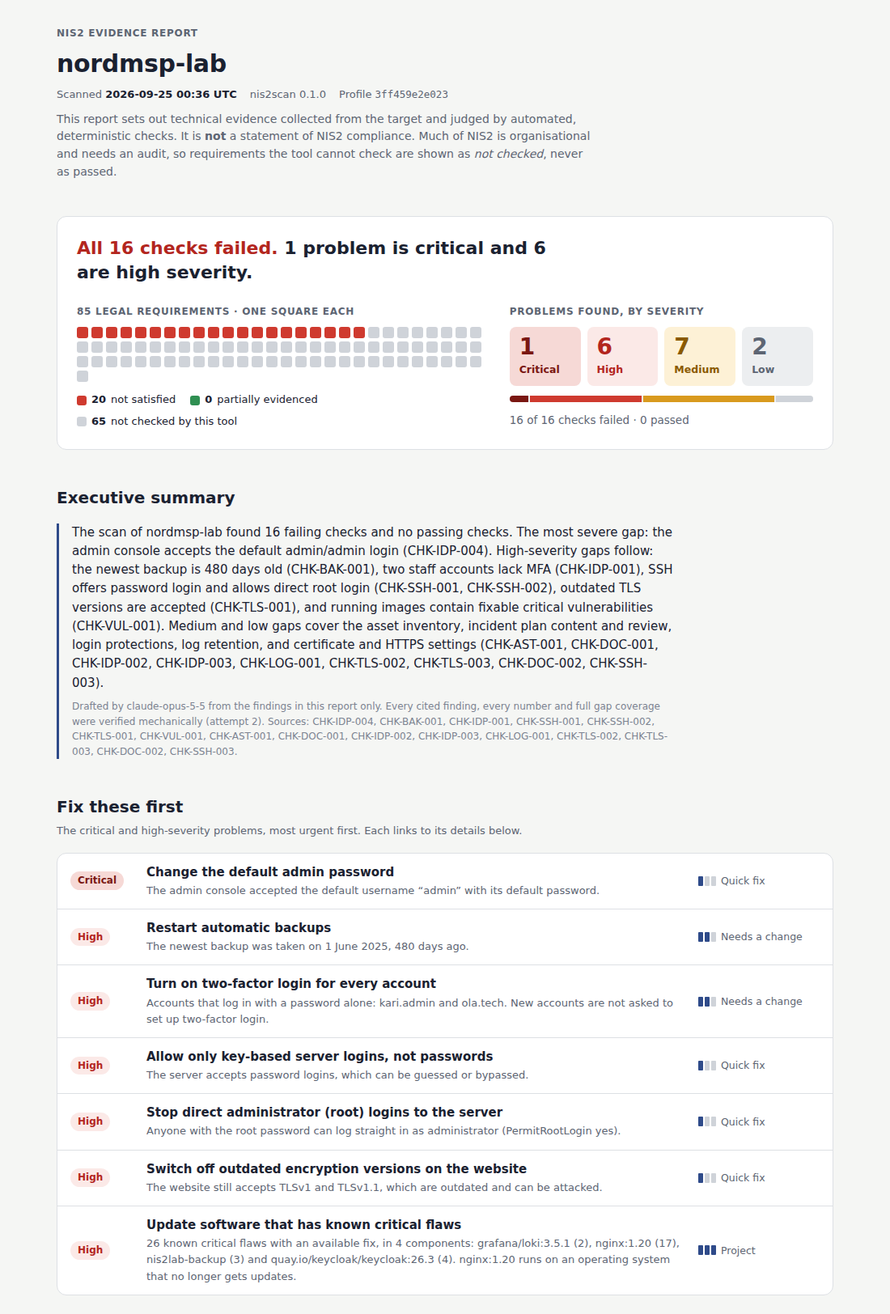
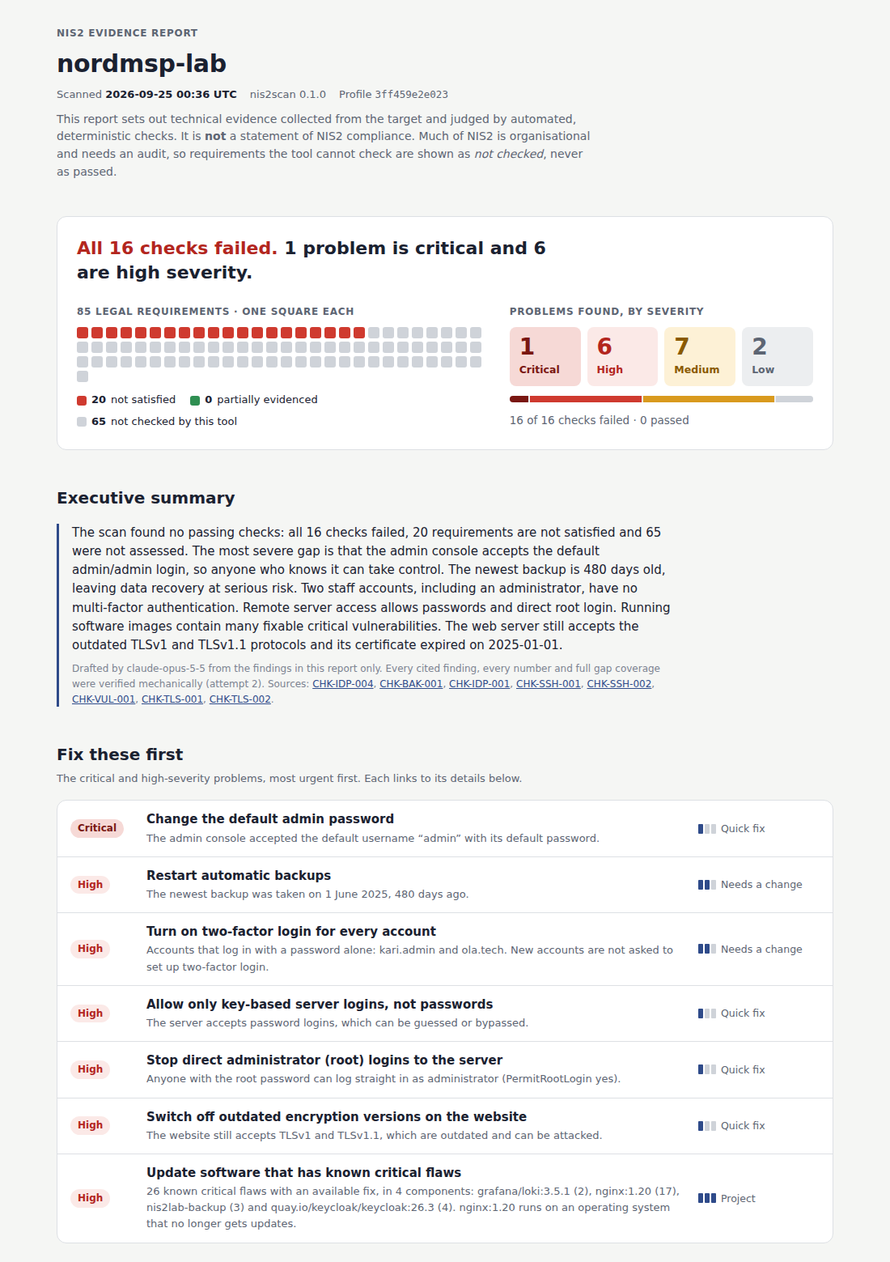
Use the prompt .2 narrative in the example report
Run B replaces the earlier narrative. The README screenshot and figures
are updated.

diff --git a/docs/example-report/weak/report.html b/docs/example-report/weak/report.html
@@ -214,11 +214,12 @@
   <section>
     <h2>Executive summary</h2>
     <div class="narrative">
-      <p>The scan of nordmsp-lab found 16 failing checks and no passing checks. The most severe gap: the admin console accepts the default admin/admin login (CHK-IDP-004). High-severity gaps follow: the newest backup is 480 days old (CHK-BAK-001), two staff accounts lack MFA (CHK-IDP-001), SSH offers password login and allows direct root login (CHK-SSH-001, CHK-SSH-002), outdated TLS versions are accepted (CHK-TLS-001), and running images contain fixable critical vulnerabilities (CHK-VUL-001). Medium and low gaps cover the asset inventory, incident plan content and review, login protections, log retention, and certificate and HTTPS settings (CHK-AST-001, CHK-DOC-001, CHK-IDP-002, CHK-IDP-003, CHK-LOG-001, CHK-TLS-002, CHK-TLS-003, CHK-DOC-002, CHK-SSH-003).</p>
+      <p>The scan found no passing checks: all 16 checks failed, 20 requirements are not satisfied and 65 were not assessed. The most severe gap is that the admin console accepts the default admin/admin login, so anyone who knows it can take control. The newest backup is 480 days old, leaving data recovery at serious risk. Two staff accounts, including an administrator, have no multi-factor authentication. Remote server access allows passwords and direct root login. Running software images contain many fixable critical vulnerabilities. The web server still accepts the outdated TLSv1 and TLSv1.1 protocols and its certificate expired on 2025-01-01.</p>
       <p class="ai">
         Drafted by claude-opus-5-5 from the findings in this report only. Every cited
         finding, every number and full gap coverage were verified mechanically
-        (attempt 2). Sources: CHK-IDP-004, CHK-BAK-001, CHK-IDP-001, CHK-SSH-001, CHK-SSH-002, CHK-TLS-001, CHK-VUL-001, CHK-AST-001, CHK-DOC-001, CHK-IDP-002, CHK-IDP-003, CHK-LOG-001, CHK-TLS-002, CHK-TLS-003, CHK-DOC-002, CHK-SSH-003.
+        (attempt 2). Sources:
+        <a href="#CHK-IDP-004">CHK-IDP-004</a>, <a href="#CHK-BAK-001">CHK-BAK-001</a>, <a href="#CHK-IDP-001">CHK-IDP-001</a>, <a href="#CHK-SSH-001">CHK-SSH-001</a>, <a href="#CHK-SSH-002">CHK-SSH-002</a>, <a href="#CHK-VUL-001">CHK-VUL-001</a>, <a href="#CHK-TLS-001">CHK-TLS-001</a>, <a href="#CHK-TLS-002">CHK-TLS-002</a>.
       </p>
     </div>
   </section>
@@ -399,11 +400,11 @@
           <div class="cmp should"><span class="k">Should be</span><p>The default login is refused.</p></div>
         </div>
         
-        <p class="why">The rules require access control and that credentials are changed initially, i.e. before use. The scan logged into the admin console with the default username admin and password admin and was accepted. Default credentials are widely known, so anyone who can reach the console could take full administrative control. This requirement is not satisfied.</p>
+        <p class="why">The law requires access control policies and requires credentials to be changed initially. The scan logged in to the admin console with the factory username and password admin/admin and was let in. These defaults are widely known, so anyone who can reach the console could take full administrative control.</p>
         <div class="todo">
           <div class="row"><span class="label">What to do</span><span class="effort" title="A setting, a password or a line of configuration"><i><s class="on"></s><s class=""></s><s class=""></s></i>Quick fix</span></div>
           
-          <ol><li>Change the password of the admin account on the admin console immediately so that admin/admin is rejected.</li><li>Check whether the console was accessed with these credentials and treat the account as possibly compromised.</li><li>Re-run the check to confirm the default login is no longer accepted.</li></ol>
+          <ol><li>Change the admin console password away from the default immediately.</li><li>Confirm that a login attempt with admin/admin is rejected.</li><li>Make changing initial credentials a mandatory step for every new system.</li></ol>
           <p class="ai">Explanation and steps drafted by AI from this finding only; cites REQ-NIS2-21.2.I, REQ-CIR2690-11.6.2-03; verified mechanically.</p>
           
         </div>
@@ -448,11 +449,11 @@
           <div class="cmp should"><span class="k">Should be</span><p>A backup no older than 26 hours.</p></div>
         </div>
         
-        <p class="why">The rules require backup management and that backup copies of data are maintained. The scan found only one backup snapshot, and it is 480 days old, far beyond the maximum age the profile allows. If data were lost or corrupted today, almost everything changed since that snapshot could not be recovered, threatening business continuity.</p>
+        <p class="why">The rules require backup management and the keeping of backup copies of data. Only one backup snapshot was found, dated 2025-06-01, which is 480 days old, far older than the maximum age the profile allows. If data were lost or encrypted by an attacker now, everything created since then could not be restored.</p>
         <div class="todo">
           <div class="row"><span class="label">What to do</span><span class="effort" title="A configuration or process change that needs some testing"><i><s class="on"></s><s class="on"></s><s class=""></s></i>Needs a change</span></div>
           
-          <ol><li>Restore regular, automated backup runs so that a new snapshot is produced within the maximum age set in the profile.</li><li>Monitor backup jobs and alert when the newest snapshot becomes older than allowed.</li><li>Test restoring from a recent snapshot to confirm the copies are usable.</li></ol>
+          <ol><li>Restart the scheduled backup job and confirm new snapshots are created regularly.</li><li>Set up an alert when the newest snapshot exceeds the profile&#39;s maximum age.</li><li>Test restoring from a fresh snapshot.</li></ol>
           <p class="ai">Explanation and steps drafted by AI from this finding only; cites REQ-NIS2-21.2.C, REQ-CIR2690-4.2.1-01; verified mechanically.</p>
           
         </div>
@@ -497,11 +498,11 @@
           <div class="cmp should"><span class="k">Should be</span><p>Every account uses two-factor login, and new accounts must set it up.</p></div>
         </div>
         
-        <p class="why">The rules call for multi-factor authentication, especially for privileged and administration accounts. The accounts kari.admin and ola.tech have no MFA, and new accounts are not required to enrol a one-time-password (OTP) factor. A stolen or guessed password alone would be enough to access these accounts, including what appears to be an administrator account.</p>
+        <p class="why">The rules call for multi-factor authentication, especially for administrator accounts. The accounts kari.admin and ola.tech have no second factor, and new accounts are not required to enrol one-time passwords. A single stolen password would be enough to access these accounts.</p>
         <div class="todo">
           <div class="row"><span class="label">What to do</span><span class="effort" title="A configuration or process change that needs some testing"><i><s class="on"></s><s class="on"></s><s class=""></s></i>Needs a change</span></div>
           
-          <ol><li>Enrol MFA for kari.admin and ola.tech.</li><li>Turn on the setting that requires new users to enrol OTP (new_users_must_enrol_otp = true).</li><li>Re-run the check to confirm no account remains without MFA.</li></ol>
+          <ol><li>Enrol kari.admin and ola.tech in multi-factor authentication.</li><li>Turn on the setting that forces new users to enrol OTP.</li><li>Rerun the check to confirm no accounts remain without multi-factor authentication.</li></ol>
           <p class="ai">Explanation and steps drafted by AI from this finding only; cites REQ-NIS2-21.2.J, REQ-CIR2690-11.3.2-01, REQ-CIR2690-11.7.1-01; verified mechanically.</p>
           
         </div>
@@ -552,11 +553,11 @@
           <div class="cmp should"><span class="k">Should be</span><p>Only key-based logins (public key) are accepted.</p></div>
         </div>
         
-        <p class="why">The rules require authentication strength that matches the importance of the system. The SSH server offers password login alongside key-based login. Passwords can be guessed or reused from elsewhere, so offering them weakens remote access to the server.</p>
+        <p class="why">The rules require authentication strength that matches the importance of the system. The remote administration service (SSH) accepts passwords as well as keys. Passwords can be guessed or stolen, which weakens protection of the server.</p>
         <div class="todo">
           <div class="row"><span class="label">What to do</span><span class="effort" title="A setting, a password or a line of configuration"><i><s class="on"></s><s class=""></s><s class=""></s></i>Quick fix</span></div>
           
-          <ol><li>Disable password authentication on the SSH server so that only publickey is offered.</li><li>Make sure keyboard-interactive and none are also not offered.</li><li>Confirm all administrators have working keys before the change.</li></ol>
+          <ol><li>Disable password authentication in the SSH configuration so only publickey is offered.</li><li>Make sure keyboard-interactive and none are also not offered.</li><li>Confirm all administrators have working keys before the change.</li></ol>
           <p class="ai">Explanation and steps drafted by AI from this finding only; cites REQ-NIS2-21.2.I, REQ-CIR2690-11.6.2-01, REQ-CIR2690-11.7.2-01; verified mechanically.</p>
           
         </div>
@@ -607,11 +608,11 @@
           <div class="cmp should"><span class="k">Should be</span><p>Direct root login is switched off. Administrators log in as themselves first.</p></div>
         </div>
         
-        <p class="why">The rules require administration privileges to be individualised and restricted. The SSH server allows direct login as root (PermitRootLogin is &#39;yes&#39;). Root is a shared, all-powerful account, so logins cannot be traced to a person and an attacker gains full control in one step.</p>
+        <p class="why">The rules require administration privileges to be individualised and restricted. The server allows direct login as the shared root account (PermitRootLogin is yes), so it is impossible to tell which person made changes and an attacker gains full control in one step.</p>
         <div class="todo">
           <div class="row"><span class="label">What to do</span><span class="effort" title="A setting, a password or a line of configuration"><i><s class="on"></s><s class=""></s><s class=""></s></i>Quick fix</span></div>
           
-          <ol><li>Set PermitRootLogin to &#39;no&#39; in the SSH server configuration.</li><li>Have administrators log in with personal accounts and elevate privileges only when needed.</li></ol>
+          <ol><li>Set PermitRootLogin to no in the SSH configuration.</li><li>Have administrators log in with personal accounts and elevate privileges only when needed.</li></ol>
           <p class="ai">Explanation and steps drafted by AI from this finding only; cites REQ-NIS2-21.2.I, REQ-CIR2690-11.3.2-03; verified mechanically.</p>
           
         </div>
@@ -656,11 +657,11 @@
           <div class="cmp should"><span class="k">Should be</span><p>Only TLSv1.2 or newer is accepted.</p></div>
         </div>
         
-        <p class="why">The rules require policies on the use of cryptography and encryption. The server still accepts TLSv1 and TLSv1.1 in addition to TLSv1.2, while the profile sets TLSv1.2 as the minimum. Accepting older versions allows connections to fall back to weaker protection of data in transit.</p>
+        <p class="why">The law requires policies on the use of cryptography. The web server accepts the old TLSv1 and TLSv1.1 protocols in addition to TLSv1.2. Older protocols give weaker protection to data in transit.</p>
         <div class="todo">
           <div class="row"><span class="label">What to do</span><span class="effort" title="A setting, a password or a line of configuration"><i><s class="on"></s><s class=""></s><s class=""></s></i>Quick fix</span></div>
           
-          <ol><li>Configure the server to refuse TLSv1 and TLSv1.1 so that TLSv1.2 is the minimum accepted version.</li><li>Re-run the check to confirm only permitted versions are accepted.</li></ol>
+          <ol><li>Configure the server so the minimum accepted version is TLSv1.2.</li><li>Rerun the check to confirm TLSv1 and TLSv1.1 are refused.</li></ol>
           <p class="ai">Explanation and steps drafted by AI from this finding only; cites REQ-NIS2-21.2.H; verified mechanically.</p>
           
         </div>
@@ -699,11 +700,11 @@
           <div class="cmp should"><span class="k">Should be</span><p>No fixable critical flaws, unless a documented risk exception covers them.</p></div>
         </div>
         
-        <p class="why">The rules require vulnerability handling, addressing critical vulnerabilities without undue delay and applying security patches within a reasonable time. Of 6 images scanned, 4 contain critical vulnerabilities for which a fix is available: nginx:1.20 (17), quay.io/keycloak/keycloak:26.3 (4), nis2lab-backup (3) and grafana/loki:3.5.1 (2). No risks have been formally accepted, and nginx:1.20 runs on an operating system that is out of support. Known, fixable weaknesses are a common entry point for attackers.</p>
+        <p class="why">The rules require vulnerabilities to be managed, critical ones to be addressed without undue delay, and security patches to be applied within a reasonable time. Of 6 running images scanned, four contain critical vulnerabilities that already have fixes: nginx:1.20 (17), keycloak 26.3 (4), nis2lab-backup (3) and grafana/loki 3.5.1 (2). No risks have been formally accepted, and the operating system under nginx:1.20 is past end of support. Attackers commonly exploit such known flaws.</p>
         <div class="todo">
           <div class="row"><span class="label">What to do</span><span class="effort" title="Planned work, such as upgrading several systems"><i><s class="on"></s><s class="on"></s><s class="on"></s></i>Project</span></div>
           
-          <ol><li>Update nginx:1.20, quay.io/keycloak/keycloak:26.3, nis2lab-backup and grafana/loki:3.5.1 to images in which the listed CRITICAL vulnerabilities are fixed.</li><li>Replace nginx:1.20 with an image whose operating system is still supported.</li><li>Where a vulnerability cannot be fixed promptly, record a formal accepted-risk decision.</li><li>Re-scan the running images to confirm no fixable CRITICAL vulnerabilities remain.</li></ol>
+          <ol><li>Update the affected images to versions where the fixes are included.</li><li>Replace nginx:1.20 with an image whose operating system is still supported.</li><li>Record a formal risk acceptance for any vulnerability that cannot be fixed yet.</li><li>Rerun the scan to confirm no fixable critical vulnerabilities remain.</li></ol>
           <p class="ai">Explanation and steps drafted by AI from this finding only; cites REQ-NIS2-21.2.E, REQ-CIR2690-6.10.1-03, REQ-CIR2690-6.10.2-03, REQ-CIR2690-6.6.1-02; verified mechanically.</p>
           
         </div>
@@ -760,11 +761,11 @@
           <div class="cmp should"><span class="k">Should be</span><p>Every running service is listed in the asset inventory.</p></div>
         </div>
         
-        <p class="why">The rules require a complete, accurate and up-to-date asset inventory. Three running services (backup, legacy-web and logs) are not in the inventory. Services nobody has recorded tend not to be patched, monitored or owned, which leaves blind spots.</p>
+        <p class="why">The rules require a complete, accurate and up-to-date asset inventory. Three running services, backup, legacy-web and logs, are not in the inventory. Assets that are not recorded tend not to be patched, monitored or owned by anyone.</p>
         <div class="todo">
           <div class="row"><span class="label">What to do</span><span class="effort" title="A setting, a password or a line of configuration"><i><s class="on"></s><s class=""></s><s class=""></s></i>Quick fix</span></div>
           
-          <ol><li>Add backup, legacy-web and logs to the asset inventory with an owner and purpose, or shut down any that are not needed.</li><li>Compare running services against the inventory regularly.</li></ol>
+          <ol><li>Add backup, legacy-web and logs to the asset inventory with an owner, or shut down any that are no longer needed.</li><li>Compare the inventory with running services regularly.</li></ol>
           <p class="ai">Explanation and steps drafted by AI from this finding only; cites REQ-NIS2-21.2.I, REQ-CIR2690-12.4.1-01; verified mechanically.</p>
           
         </div>
@@ -809,11 +810,11 @@
           <div class="cmp should"><span class="k">Should be</span><p>The plan covers 24h early warning, 72h incident notification, one-month final report and CSIRT contact.</p></div>
         </div>
         
-        <p class="why">NIS2 requires staged reporting of significant incidents to the CSIRT, starting with an early warning within 24 hours. The incident response plan (incident-response.md) does not mention the 24h early warning, the 72h incident notification, the one-month final report or the CSIRT contact. During an incident, staff may miss legal reporting deadlines.</p>
+        <p class="why">NIS2 requires significant incidents to be reported to the CSIRT in stages, starting with an early warning. The incident response plan does not mention the 24h early warning, the 72h incident notification, the one-month final report or the CSIRT contact. In a real incident staff may miss legal reporting deadlines.</p>
         <div class="todo">
           <div class="row"><span class="label">What to do</span><span class="effort" title="A configuration or process change that needs some testing"><i><s class="on"></s><s class="on"></s><s class=""></s></i>Needs a change</span></div>
           
-          <ol><li>Update incident-response.md to describe the 24h early warning, 72h incident notification and one-month final report.</li><li>Add the CSIRT contact details to the plan.</li><li>Brief the incident team on the updated reporting steps.</li></ol>
+          <ol><li>Update incident-response.md to describe the 24h early warning, 72h incident notification and one-month final report.</li><li>Add the CSIRT contact details to the plan.</li></ol>
           <p class="ai">Explanation and steps drafted by AI from this finding only; cites REQ-NIS2-23.4; verified mechanically.</p>
           
         </div>
@@ -852,11 +853,11 @@
           <div class="cmp should"><span class="k">Should be</span><p>Accounts are locked for a while after repeated failed logins.</p></div>
         </div>
         
-        <p class="why">The rules require blocking users after a predefined number of unsuccessful log-in attempts. Brute-force protection is switched off on the staff realm, so an attacker can keep guessing passwords without being blocked.</p>
+        <p class="why">The rules require users to be blocked after a predefined number of failed log-in attempts. Brute-force protection is switched off on the staff login system, so an attacker can keep guessing passwords without being stopped.</p>
         <div class="todo">
           <div class="row"><span class="label">What to do</span><span class="effort" title="A setting, a password or a line of configuration"><i><s class="on"></s><s class=""></s><s class=""></s></i>Quick fix</span></div>
           
-          <ol><li>Enable brute-force protection on the staff realm (bruteForceProtected = true).</li><li>Review the failureFactor setting (currently 30) to decide how many failed attempts trigger blocking.</li></ol>
+          <ol><li>Enable brute-force protection (bruteForceProtected) on the staff realm.</li><li>Review the failure threshold setting so accounts are blocked after repeated failures.</li></ol>
           <p class="ai">Explanation and steps drafted by AI from this finding only; cites REQ-NIS2-21.2.I, REQ-CIR2690-11.6.2-04; verified mechanically.</p>
           
         </div>
@@ -901,11 +902,11 @@
           <div class="cmp should"><span class="k">Should be</span><p>Passwords have at least 12 characters.</p></div>
         </div>
         
-        <p class="why">The rules require authentication strength that fits the systems being accessed. No password policy is set, so there is no minimum password length, while the profile expects at least 12. Users can therefore choose very short, easily guessed passwords.</p>
+        <p class="why">The rules require authentication strength appropriate to the systems protected. No password policy is set, so there is no minimum length, while the profile expects a minimum length of at least 12. Short passwords are easy to guess.</p>
         <div class="todo">
           <div class="row"><span class="label">What to do</span><span class="effort" title="A setting, a password or a line of configuration"><i><s class="on"></s><s class=""></s><s class=""></s></i>Quick fix</span></div>
           
-          <ol><li>Configure a password policy with a minimum length of at least 12.</li><li>Require users with passwords that do not meet the new policy to change them.</li></ol>
+          <ol><li>Configure a password policy in the login system with a minimum length of at least 12.</li><li>Ask users with weak passwords to change them.</li></ol>
           <p class="ai">Explanation and steps drafted by AI from this finding only; cites REQ-NIS2-21.2.I, REQ-CIR2690-11.6.2-01, REQ-CIR2690-11.7.2-01; verified mechanically.</p>
           
         </div>
@@ -956,11 +957,11 @@
           <div class="cmp should"><span class="k">Should be</span><p>Logs are kept for at least 90 days.</p></div>
         </div>
         
-        <p class="why">The rules require logs to be maintained for a predefined period to support incident handling. Central logs are deleted after 7 days, while the profile requires at least 90. Incidents are often discovered late; by then the evidence needed to investigate may already be gone.</p>
+        <p class="why">The rules require logs to be kept for a predefined period to support incident handling. Central logs are deleted after 7 days, while the profile expects at least 90 days. Incidents are often discovered late, and the evidence would already be gone.</p>
         <div class="todo">
           <div class="row"><span class="label">What to do</span><span class="effort" title="A setting, a password or a line of configuration"><i><s class="on"></s><s class=""></s><s class=""></s></i>Quick fix</span></div>
           
-          <ol><li>Change the log retention period from 7 days to at least 90 days.</li><li>Make sure logs are also backed up.</li></ol>
+          <ol><li>Change the log retention period setting from 7 days to at least 90 days.</li><li>Make sure the logs are also backed up.</li></ol>
           <p class="ai">Explanation and steps drafted by AI from this finding only; cites REQ-NIS2-21.2.B, REQ-CIR2690-3.2.5-01; verified mechanically.</p>
           
         </div>
@@ -1005,11 +1006,11 @@
           <div class="cmp should"><span class="k">Should be</span><p>A valid certificate with at least 14 days left.</p></div>
         </div>
         
-        <p class="why">The rules require policies on the use of cryptography. The server&#39;s certificate expired on 2025-01-01. An expired certificate causes browser warnings, trains users to ignore security warnings and means visitors cannot reliably confirm they are talking to the genuine server.</p>
+        <p class="why">The law requires policies on the use of cryptography. The web server&#39;s certificate expired on 2025-01-01. Browsers show warnings, users may learn to ignore them, and encrypted connections cannot be trusted properly.</p>
         <div class="todo">
           <div class="row"><span class="label">What to do</span><span class="effort" title="A setting, a password or a line of configuration"><i><s class="on"></s><s class=""></s><s class=""></s></i>Quick fix</span></div>
           
-          <ol><li>Obtain and install a new, valid certificate for the server.</li><li>Set up renewal tracking or automatic renewal so the certificate is replaced well before it expires.</li></ol>
+          <ol><li>Install a new valid certificate on the web server.</li><li>Set up monitoring that warns before the certificate reaches the profile&#39;s minimum remaining validity.</li></ol>
           <p class="ai">Explanation and steps drafted by AI from this finding only; cites REQ-NIS2-21.2.H; verified mechanically.</p>
           
         </div>
@@ -1048,11 +1049,11 @@
           <div class="cmp should"><span class="k">Should be</span><p>Visitors on http:// are sent to https://, and browsers are told to always use it.</p></div>
         </div>
         
-        <p class="why">The rules require policies on the use of encryption. Plain HTTP requests are answered directly instead of being redirected to HTTPS, and no Strict-Transport-Security (HSTS) header is sent. Users may use the site unencrypted, exposing data to interception.</p>
+        <p class="why">The law requires policies on the use of cryptography and encryption. The website answers over unencrypted HTTP instead of redirecting to HTTPS, and it does not send the Strict-Transport-Security header. Visitors may therefore use unencrypted connections that can be read or altered.</p>
         <div class="todo">
           <div class="row"><span class="label">What to do</span><span class="effort" title="A setting, a password or a line of configuration"><i><s class="on"></s><s class=""></s><s class=""></s></i>Quick fix</span></div>
           
-          <ol><li>Configure the web server to redirect all plain HTTP requests to HTTPS.</li><li>Add the Strict-Transport-Security header to HTTPS responses.</li></ol>
+          <ol><li>Configure the web server to redirect all HTTP requests to HTTPS.</li><li>Add the Strict-Transport-Security header to HTTPS responses.</li></ol>
           <p class="ai">Explanation and steps drafted by AI from this finding only; cites REQ-NIS2-21.2.H; verified mechanically.</p>
           
         </div>
@@ -1091,11 +1092,11 @@
           <div class="cmp should"><span class="k">Should be</span><p>The plan is reviewed at least every 365 days.</p></div>
         </div>
         
-        <p class="why">Incident handling depends on a current plan. incident-response.md was last reviewed on 2023-02-14, 1319 days ago, while the profile expects a review at least every 365 days. Contacts, systems and procedures in an outdated plan may no longer be correct.</p>
+        <p class="why">The law requires incident handling arrangements. The incident response plan was last reviewed on 2023-02-14, 1319 days ago, while the profile expects a review at least every 365 days. An outdated plan may name wrong people, systems or steps.</p>
         <div class="todo">
           <div class="row"><span class="label">What to do</span><span class="effort" title="A configuration or process change that needs some testing"><i><s class="on"></s><s class="on"></s><s class=""></s></i>Needs a change</span></div>
           
-          <ol><li>Review and update incident-response.md and record the new review date.</li><li>Schedule reviews so that the plan is never older than 365 days.</li></ol>
+          <ol><li>Review and update incident-response.md and record the new review date.</li><li>Schedule reviews so the plan never exceeds 365 days since last review.</li></ol>
           <p class="ai">Explanation and steps drafted by AI from this finding only; cites REQ-NIS2-21.2.B; verified mechanically.</p>
           
         </div>
@@ -1134,11 +1135,11 @@
           <div class="cmp should"><span class="k">Should be</span><p>At most 4 attempts per connection.</p></div>
         </div>
         
-        <p class="why">Access control includes limiting login attempts. The SSH server allows 10 authentication attempts per connection, while the profile allows at most 4. More attempts per connection make guessing credentials easier.</p>
+        <p class="why">Access control policies should limit password guessing. The SSH service allows 10 login attempts per connection, while the profile expects at most 4. More attempts per connection make guessing easier.</p>
         <div class="todo">
           <div class="row"><span class="label">What to do</span><span class="effort" title="A setting, a password or a line of configuration"><i><s class="on"></s><s class=""></s><s class=""></s></i>Quick fix</span></div>
           
-          <ol><li>Set MaxAuthTries to 4 or lower in the SSH server configuration.</li></ol>
+          <ol><li>Set MaxAuthTries to 4 or lower in the SSH configuration.</li></ol>
           <p class="ai">Explanation and steps drafted by AI from this finding only; cites REQ-NIS2-21.2.I; verified mechanically.</p>
           
         </div>

diff --git a/README.md b/README.md
@@ -39,12 +39,13 @@ or `not_assessed`, and the report says how much it could and could not assess.
 | **Demo lab** | The `weak` profile fails 16 of 16 checks (20 requirements not satisfied). The `hardened` profile passes 16 of 16. Both are reproducible with one command. |
 | **Extraction quality** (gold set: 20 provisions, 55 obligations) | Quotes verbatim: 100%. Obligations found: 100%. Invented numbers or durations: 0. Open values mislabelled as stated: 0%. |
 | **Run-to-run stability** | Two runs agree on 19/20 provision structures, clause overlap 0.99. |
-| **Narrative grounding** | Every citation, every number and full gap coverage are checked by code. A draft that fails twice is not shown. |
+| **Narrative grounding** | Every citation, every number and full gap coverage are checked by code, and IDs are kept out of the prose. A draft that fails twice is not shown. |
 | **Catalog** | 85 requirements (11 from NIS2, 74 from CIR 2024/2690), all reviewed, with every quote verified against EUR-Lex. |
-| **Tests** | 204 tests, run in CI on Python 3.12 to 3.14 without Docker or an API key. |
+| **Tests** | 216 tests, run in CI on Python 3.12 to 3.14 without Docker or an API key. |
 
 Each figure has a write-up in [`eval/results/`](eval/results/), including what went
-wrong and what was changed: three prompt versions and a model comparison.
+wrong and what was changed: three extraction prompt versions, a narrative prompt revision
+and a model comparison.
 
 ## How the AI is kept in check
 
